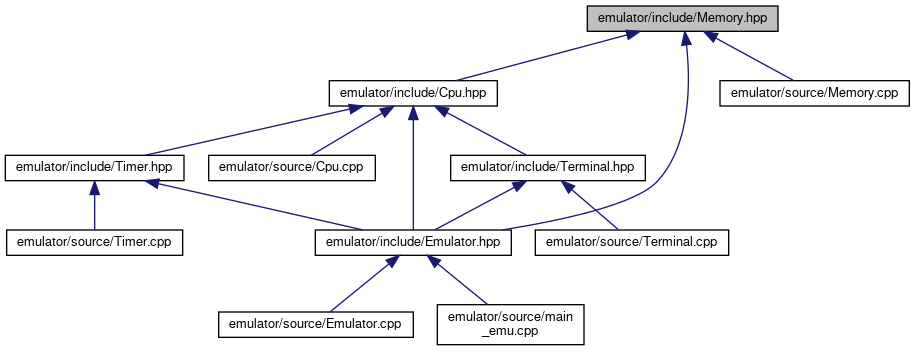
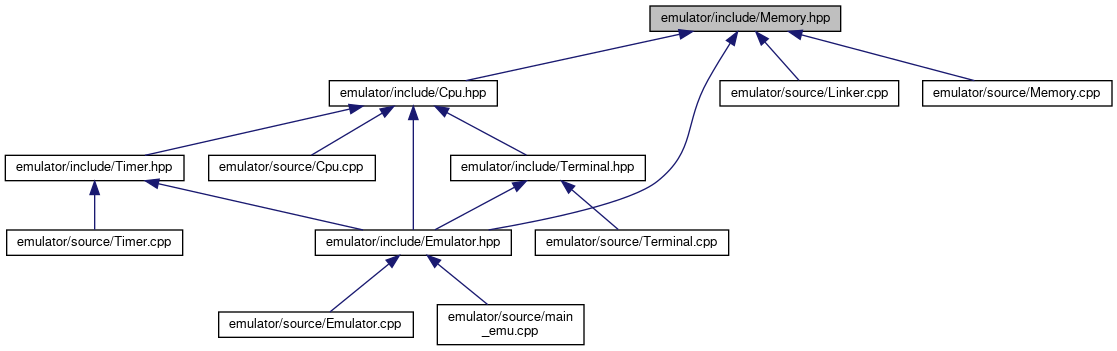
[automated] Build docs

diff --git a/docs/dir_000005_000004.html b/docs/dir_000005_000004.html
@@ -65,7 +65,7 @@ $(function() {
 </div>
 </div><!-- top -->
 <div class="contents">
-<h3>source &rarr; include Relation</h3><table class="dirtab"><tr class="dirtab"><th class="dirtab">File in emulator/source</th><th class="dirtab">Includes file in emulator/include</th></tr><tr class="dirtab"><td class="dirtab"><a class="el" href="Alu_8cpp.html">Alu.cpp</a></td><td class="dirtab"><a class="el" href="Alu_8hpp.html">Alu.hpp</a></td></tr><tr class="dirtab"><td class="dirtab"><a class="el" href="Alu_8cpp.html">Alu.cpp</a></td><td class="dirtab"><a class="el" href="Instruction_8hpp.html">Instruction.hpp</a></td></tr><tr class="dirtab"><td class="dirtab"><a class="el" href="Alu_8cpp.html">Alu.cpp</a></td><td class="dirtab"><a class="el" href="UsageFault_8hpp.html">UsageFault.hpp</a></td></tr><tr class="dirtab"><td class="dirtab"><a class="el" href="CommandLineOptionsParser_8cpp.html">CommandLineOptionsParser.cpp</a></td><td class="dirtab"><a class="el" href="CommandLineOptionsParser_8hpp.html">CommandLineOptionsParser.hpp</a></td></tr><tr class="dirtab"><td class="dirtab"><a class="el" href="CommandLineOptionsParser_8cpp.html">CommandLineOptionsParser.cpp</a></td><td class="dirtab"><a class="el" href="InvalidCommandLineOptions_8hpp.html">InvalidCommandLineOptions.hpp</a></td></tr><tr class="dirtab"><td class="dirtab"><a class="el" href="Cpu_8cpp.html">Cpu.cpp</a></td><td class="dirtab"><a class="el" href="Cpu_8hpp.html">Cpu.hpp</a></td></tr><tr class="dirtab"><td class="dirtab"><a class="el" href="Cpu_8cpp.html">Cpu.cpp</a></td><td class="dirtab"><a class="el" href="InstructionsDefs_8hpp.html">InstructionsDefs.hpp</a></td></tr><tr class="dirtab"><td class="dirtab"><a class="el" href="Cpu_8cpp.html">Cpu.cpp</a></td><td class="dirtab"><a class="el" href="StackOverflow_8hpp.html">StackOverflow.hpp</a></td></tr><tr class="dirtab"><td class="dirtab"><a class="el" href="Cpu_8cpp.html">Cpu.cpp</a></td><td class="dirtab"><a class="el" href="StackUnderflow_8hpp.html">StackUnderflow.hpp</a></td></tr><tr class="dirtab"><td class="dirtab"><a class="el" href="Cpu_8cpp.html">Cpu.cpp</a></td><td class="dirtab"><a class="el" href="UsageFault_8hpp.html">UsageFault.hpp</a></td></tr><tr class="dirtab"><td class="dirtab"><a class="el" href="ElfStructs_8cpp.html">ElfStructs.cpp</a></td><td class="dirtab"><a class="el" href="ElfStructs_8hpp.html">ElfStructs.hpp</a></td></tr><tr class="dirtab"><td class="dirtab"><a class="el" href="ElfStructs_8cpp.html">ElfStructs.cpp</a></td><td class="dirtab"><a class="el" href="InvalidElf_8hpp.html">InvalidElf.hpp</a></td></tr><tr class="dirtab"><td class="dirtab"><a class="el" href="Emulator_8cpp.html">Emulator.cpp</a></td><td class="dirtab"><a class="el" href="Emulator_8hpp.html">Emulator.hpp</a></td></tr><tr class="dirtab"><td class="dirtab"><a class="el" href="Instruction_8cpp.html">Instruction.cpp</a></td><td class="dirtab"><a class="el" href="Instruction_8hpp.html">Instruction.hpp</a></td></tr><tr class="dirtab"><td class="dirtab"><a class="el" href="Instruction_8cpp.html">Instruction.cpp</a></td><td class="dirtab"><a class="el" href="InstructionsDefs_8hpp.html">InstructionsDefs.hpp</a></td></tr><tr class="dirtab"><td class="dirtab"><a class="el" href="Linker_8cpp.html">Linker.cpp</a></td><td class="dirtab"><a class="el" href="Linker_8hpp.html">Linker.hpp</a></td></tr><tr class="dirtab"><td class="dirtab"><a class="el" href="Linker_8cpp.html">Linker.cpp</a></td><td class="dirtab"><a class="el" href="LinkerError_8hpp.html">LinkerError.hpp</a></td></tr><tr class="dirtab"><td class="dirtab"><a class="el" href="main__emu_8cpp.html">main_emu.cpp</a></td><td class="dirtab"><a class="el" href="CommandLineOptionsParser_8hpp.html">CommandLineOptionsParser.hpp</a></td></tr><tr class="dirtab"><td class="dirtab"><a class="el" href="main__emu_8cpp.html">main_emu.cpp</a></td><td class="dirtab"><a class="el" href="Emulator_8hpp.html">Emulator.hpp</a></td></tr><tr class="dirtab"><td class="dirtab"><a class="el" href="main__emu_8cpp.html">main_emu.cpp</a></td><td class="dirtab"><a class="el" href="Linker_8hpp.html">Linker.hpp</a></td></tr><tr class="dirtab"><td class="dirtab"><a class="el" href="main__emu_8cpp.html">main_emu.cpp</a></td><td class="dirtab"><a class="el" href="Typedefs_8hpp.html">Typedefs.hpp</a></td></tr><tr class="dirtab"><td class="dirtab"><a class="el" href="Memory_8cpp.html">Memory.cpp</a></td><td class="dirtab"><a class="el" href="Memory_8hpp.html">Memory.hpp</a></td></tr><tr class="dirtab"><td class="dirtab"><a class="el" href="Memory_8cpp.html">Memory.cpp</a></td><td class="dirtab"><a class="el" href="MemoryAccessViolation_8hpp.html">MemoryAccessViolation.hpp</a></td></tr><tr class="dirtab"><td class="dirtab"><a class="el" href="Psw_8cpp.html">Psw.cpp</a></td><td class="dirtab"><a class="el" href="Psw_8hpp.html">Psw.hpp</a></td></tr><tr class="dirtab"><td class="dirtab"><a class="el" href="Terminal_8cpp.html">Terminal.cpp</a></td><td class="dirtab"><a class="el" href="CpuDefs_8hpp.html">CpuDefs.hpp</a></td></tr><tr class="dirtab"><td class="dirtab"><a class="el" href="Terminal_8cpp.html">Terminal.cpp</a></td><td class="dirtab"><a class="el" href="MemoryAccessViolation_8hpp.html">MemoryAccessViolation.hpp</a></td></tr><tr class="dirtab"><td class="dirtab"><a class="el" href="Terminal_8cpp.html">Terminal.cpp</a></td><td class="dirtab"><a class="el" href="Terminal_8hpp.html">Terminal.hpp</a></td></tr><tr class="dirtab"><td class="dirtab"><a class="el" href="Timer_8cpp.html">Timer.cpp</a></td><td class="dirtab"><a class="el" href="CpuDefs_8hpp.html">CpuDefs.hpp</a></td></tr><tr class="dirtab"><td class="dirtab"><a class="el" href="Timer_8cpp.html">Timer.cpp</a></td><td class="dirtab"><a class="el" href="MemoryAccessViolation_8hpp.html">MemoryAccessViolation.hpp</a></td></tr><tr class="dirtab"><td class="dirtab"><a class="el" href="Timer_8cpp.html">Timer.cpp</a></td><td class="dirtab"><a class="el" href="Timer_8hpp.html">Timer.hpp</a></td></tr></table></div><!-- contents -->
+<h3>source &rarr; include Relation</h3><table class="dirtab"><tr class="dirtab"><th class="dirtab">File in emulator/source</th><th class="dirtab">Includes file in emulator/include</th></tr><tr class="dirtab"><td class="dirtab"><a class="el" href="Alu_8cpp.html">Alu.cpp</a></td><td class="dirtab"><a class="el" href="Alu_8hpp.html">Alu.hpp</a></td></tr><tr class="dirtab"><td class="dirtab"><a class="el" href="Alu_8cpp.html">Alu.cpp</a></td><td class="dirtab"><a class="el" href="Instruction_8hpp.html">Instruction.hpp</a></td></tr><tr class="dirtab"><td class="dirtab"><a class="el" href="Alu_8cpp.html">Alu.cpp</a></td><td class="dirtab"><a class="el" href="UsageFault_8hpp.html">UsageFault.hpp</a></td></tr><tr class="dirtab"><td class="dirtab"><a class="el" href="CommandLineOptionsParser_8cpp.html">CommandLineOptionsParser.cpp</a></td><td class="dirtab"><a class="el" href="CommandLineOptionsParser_8hpp.html">CommandLineOptionsParser.hpp</a></td></tr><tr class="dirtab"><td class="dirtab"><a class="el" href="CommandLineOptionsParser_8cpp.html">CommandLineOptionsParser.cpp</a></td><td class="dirtab"><a class="el" href="InvalidCommandLineOptions_8hpp.html">InvalidCommandLineOptions.hpp</a></td></tr><tr class="dirtab"><td class="dirtab"><a class="el" href="Cpu_8cpp.html">Cpu.cpp</a></td><td class="dirtab"><a class="el" href="Cpu_8hpp.html">Cpu.hpp</a></td></tr><tr class="dirtab"><td class="dirtab"><a class="el" href="Cpu_8cpp.html">Cpu.cpp</a></td><td class="dirtab"><a class="el" href="InstructionsDefs_8hpp.html">InstructionsDefs.hpp</a></td></tr><tr class="dirtab"><td class="dirtab"><a class="el" href="Cpu_8cpp.html">Cpu.cpp</a></td><td class="dirtab"><a class="el" href="StackOverflow_8hpp.html">StackOverflow.hpp</a></td></tr><tr class="dirtab"><td class="dirtab"><a class="el" href="Cpu_8cpp.html">Cpu.cpp</a></td><td class="dirtab"><a class="el" href="StackUnderflow_8hpp.html">StackUnderflow.hpp</a></td></tr><tr class="dirtab"><td class="dirtab"><a class="el" href="Cpu_8cpp.html">Cpu.cpp</a></td><td class="dirtab"><a class="el" href="UsageFault_8hpp.html">UsageFault.hpp</a></td></tr><tr class="dirtab"><td class="dirtab"><a class="el" href="ElfStructs_8cpp.html">ElfStructs.cpp</a></td><td class="dirtab"><a class="el" href="ElfStructs_8hpp.html">ElfStructs.hpp</a></td></tr><tr class="dirtab"><td class="dirtab"><a class="el" href="ElfStructs_8cpp.html">ElfStructs.cpp</a></td><td class="dirtab"><a class="el" href="InvalidElf_8hpp.html">InvalidElf.hpp</a></td></tr><tr class="dirtab"><td class="dirtab"><a class="el" href="Emulator_8cpp.html">Emulator.cpp</a></td><td class="dirtab"><a class="el" href="Emulator_8hpp.html">Emulator.hpp</a></td></tr><tr class="dirtab"><td class="dirtab"><a class="el" href="Instruction_8cpp.html">Instruction.cpp</a></td><td class="dirtab"><a class="el" href="Instruction_8hpp.html">Instruction.hpp</a></td></tr><tr class="dirtab"><td class="dirtab"><a class="el" href="Instruction_8cpp.html">Instruction.cpp</a></td><td class="dirtab"><a class="el" href="InstructionsDefs_8hpp.html">InstructionsDefs.hpp</a></td></tr><tr class="dirtab"><td class="dirtab"><a class="el" href="Linker_8cpp.html">Linker.cpp</a></td><td class="dirtab"><a class="el" href="Linker_8hpp.html">Linker.hpp</a></td></tr><tr class="dirtab"><td class="dirtab"><a class="el" href="Linker_8cpp.html">Linker.cpp</a></td><td class="dirtab"><a class="el" href="LinkerError_8hpp.html">LinkerError.hpp</a></td></tr><tr class="dirtab"><td class="dirtab"><a class="el" href="Linker_8cpp.html">Linker.cpp</a></td><td class="dirtab"><a class="el" href="Memory_8hpp.html">Memory.hpp</a></td></tr><tr class="dirtab"><td class="dirtab"><a class="el" href="main__emu_8cpp.html">main_emu.cpp</a></td><td class="dirtab"><a class="el" href="CommandLineOptionsParser_8hpp.html">CommandLineOptionsParser.hpp</a></td></tr><tr class="dirtab"><td class="dirtab"><a class="el" href="main__emu_8cpp.html">main_emu.cpp</a></td><td class="dirtab"><a class="el" href="Emulator_8hpp.html">Emulator.hpp</a></td></tr><tr class="dirtab"><td class="dirtab"><a class="el" href="main__emu_8cpp.html">main_emu.cpp</a></td><td class="dirtab"><a class="el" href="Linker_8hpp.html">Linker.hpp</a></td></tr><tr class="dirtab"><td class="dirtab"><a class="el" href="main__emu_8cpp.html">main_emu.cpp</a></td><td class="dirtab"><a class="el" href="Typedefs_8hpp.html">Typedefs.hpp</a></td></tr><tr class="dirtab"><td class="dirtab"><a class="el" href="Memory_8cpp.html">Memory.cpp</a></td><td class="dirtab"><a class="el" href="Memory_8hpp.html">Memory.hpp</a></td></tr><tr class="dirtab"><td class="dirtab"><a class="el" href="Memory_8cpp.html">Memory.cpp</a></td><td class="dirtab"><a class="el" href="MemoryAccessViolation_8hpp.html">MemoryAccessViolation.hpp</a></td></tr><tr class="dirtab"><td class="dirtab"><a class="el" href="Psw_8cpp.html">Psw.cpp</a></td><td class="dirtab"><a class="el" href="Psw_8hpp.html">Psw.hpp</a></td></tr><tr class="dirtab"><td class="dirtab"><a class="el" href="Terminal_8cpp.html">Terminal.cpp</a></td><td class="dirtab"><a class="el" href="CpuDefs_8hpp.html">CpuDefs.hpp</a></td></tr><tr class="dirtab"><td class="dirtab"><a class="el" href="Terminal_8cpp.html">Terminal.cpp</a></td><td class="dirtab"><a class="el" href="MemoryAccessViolation_8hpp.html">MemoryAccessViolation.hpp</a></td></tr><tr class="dirtab"><td class="dirtab"><a class="el" href="Terminal_8cpp.html">Terminal.cpp</a></td><td class="dirtab"><a class="el" href="Terminal_8hpp.html">Terminal.hpp</a></td></tr><tr class="dirtab"><td class="dirtab"><a class="el" href="Timer_8cpp.html">Timer.cpp</a></td><td class="dirtab"><a class="el" href="CpuDefs_8hpp.html">CpuDefs.hpp</a></td></tr><tr class="dirtab"><td class="dirtab"><a class="el" href="Timer_8cpp.html">Timer.cpp</a></td><td class="dirtab"><a class="el" href="MemoryAccessViolation_8hpp.html">MemoryAccessViolation.hpp</a></td></tr><tr class="dirtab"><td class="dirtab"><a class="el" href="Timer_8cpp.html">Timer.cpp</a></td><td class="dirtab"><a class="el" href="Timer_8hpp.html">Timer.hpp</a></td></tr></table></div><!-- contents -->
 <!-- start footer part -->
 <hr class="footer"/><address class="footer"><small>
 Generated by&#160;<a href="https://www.doxygen.org/index.html"><img class="footer" src="doxygen.svg" width="104" height="31" alt="doxygen"/></a> 1.9.1

diff --git a/docs/Linker_8hpp_source.html b/docs/Linker_8hpp_source.html
@@ -101,31 +101,36 @@ $(function() {
 <div class="line"><a name="l00030"></a><span class="lineno">   30</span>&#160;        <span class="keywordtype">void</span> add_section_address_offsets(std::map&lt;std::string, int&gt; section_address_map);</div>
 <div class="line"><a name="l00031"></a><span class="lineno">   31</span>&#160;        <span class="keywordtype">void</span> resolve_relocations();</div>
 <div class="line"><a name="l00032"></a><span class="lineno">   32</span>&#160; </div>
-<div class="line"><a name="l00033"></a><span class="lineno">   33</span>&#160;        <span class="keyword">static</span> <span class="keywordtype">void</span> add_byte(std::vector&lt;emulator::system::byte_t&gt; &amp;object_code,</div>
-<div class="line"><a name="l00034"></a><span class="lineno">   34</span>&#160;                             <span class="keywordtype">size_t</span> offset,</div>
-<div class="line"><a name="l00035"></a><span class="lineno">   35</span>&#160;                             <a class="code" href="namespaceemulator_1_1system.html#a47e14db436e9c9e9146bb5778118346c">emulator::system::byte_t</a> increment);</div>
-<div class="line"><a name="l00036"></a><span class="lineno">   36</span>&#160;        <span class="keyword">static</span> <span class="keywordtype">void</span> add_word(std::vector&lt;emulator::system::byte_t&gt; &amp;object_code,</div>
+<div class="line"><a name="l00033"></a><span class="lineno">   33</span>&#160;        <span class="keywordtype">void</span> arrange_sections_to_memory(std::map&lt;std::string, int&gt; section_address_map);</div>
+<div class="line"><a name="l00034"></a><span class="lineno">   34</span>&#160;        <span class="keywordtype">bool</span> check_section_address_map(std::map&lt;std::string, int&gt; section_address_map);</div>
+<div class="line"><a name="l00035"></a><span class="lineno">   35</span>&#160; </div>
+<div class="line"><a name="l00036"></a><span class="lineno">   36</span>&#160;        <span class="keyword">static</span> <span class="keywordtype">void</span> add_byte(std::vector&lt;emulator::system::byte_t&gt; &amp;object_code,</div>
 <div class="line"><a name="l00037"></a><span class="lineno">   37</span>&#160;                             <span class="keywordtype">size_t</span> offset,</div>
-<div class="line"><a name="l00038"></a><span class="lineno">   38</span>&#160;                             <a class="code" href="namespaceemulator_1_1system.html#a1aea35845049f95d8442217b217adb30">emulator::system::word_t</a> increment);</div>
-<div class="line"><a name="l00039"></a><span class="lineno">   39</span>&#160; </div>
-<div class="line"><a name="l00040"></a><span class="lineno">   40</span>&#160;        <span class="keyword">static</span> <span class="keywordtype">size_t</span> next_section_idx;</div>
-<div class="line"><a name="l00041"></a><span class="lineno">   41</span>&#160; </div>
-<div class="line"><a name="l00042"></a><span class="lineno">   42</span>&#160;        std::map&lt;std::string, elf::symbol_table_entry_t&gt; symbols;</div>
-<div class="line"><a name="l00043"></a><span class="lineno">   43</span>&#160; </div>
-<div class="line"><a name="l00044"></a><span class="lineno">   44</span>&#160;        std::vector&lt;elf::section_t&gt; sections;</div>
-<div class="line"><a name="l00045"></a><span class="lineno">   45</span>&#160;        std::map&lt;std::string, size_t&gt; section_offsets;</div>
-<div class="line"><a name="l00046"></a><span class="lineno">   46</span>&#160;        std::map&lt;std::string, size_t&gt; section_sizes;</div>
-<div class="line"><a name="l00047"></a><span class="lineno">   47</span>&#160; </div>
-<div class="line"><a name="l00048"></a><span class="lineno">   48</span>&#160;        std::vector&lt;emulator::system::byte_t&gt; memory_contents_;</div>
-<div class="line"><a name="l00049"></a><span class="lineno">   49</span>&#160;    };</div>
-<div class="line"><a name="l00050"></a><span class="lineno">   50</span>&#160;} <span class="comment">// namespace linker</span></div>
-<div class="line"><a name="l00051"></a><span class="lineno">   51</span>&#160; </div>
-<div class="line"><a name="l00052"></a><span class="lineno">   52</span>&#160;<span class="preprocessor">#endif</span></div>
+<div class="line"><a name="l00038"></a><span class="lineno">   38</span>&#160;                             <a class="code" href="namespaceemulator_1_1system.html#a47e14db436e9c9e9146bb5778118346c">emulator::system::byte_t</a> increment);</div>
+<div class="line"><a name="l00039"></a><span class="lineno">   39</span>&#160;        <span class="keyword">static</span> <span class="keywordtype">void</span> add_word(std::vector&lt;emulator::system::byte_t&gt; &amp;object_code,</div>
+<div class="line"><a name="l00040"></a><span class="lineno">   40</span>&#160;                             <span class="keywordtype">size_t</span> offset,</div>
+<div class="line"><a name="l00041"></a><span class="lineno">   41</span>&#160;                             <a class="code" href="namespaceemulator_1_1system.html#a1aea35845049f95d8442217b217adb30">emulator::system::word_t</a> increment);</div>
+<div class="line"><a name="l00042"></a><span class="lineno">   42</span>&#160; </div>
+<div class="line"><a name="l00043"></a><span class="lineno">   43</span>&#160;        <span class="keyword">static</span> <span class="keywordtype">size_t</span> next_section_idx;</div>
+<div class="line"><a name="l00044"></a><span class="lineno">   44</span>&#160; </div>
+<div class="line"><a name="l00045"></a><span class="lineno">   45</span>&#160;        <span class="keywordtype">size_t</span> next_section_offset = 0;</div>
+<div class="line"><a name="l00046"></a><span class="lineno">   46</span>&#160; </div>
+<div class="line"><a name="l00047"></a><span class="lineno">   47</span>&#160;        std::map&lt;std::string, elf::symbol_table_entry_t&gt; symbols;</div>
+<div class="line"><a name="l00048"></a><span class="lineno">   48</span>&#160; </div>
+<div class="line"><a name="l00049"></a><span class="lineno">   49</span>&#160;        std::vector&lt;elf::section_t&gt; sections;</div>
+<div class="line"><a name="l00050"></a><span class="lineno">   50</span>&#160;        std::map&lt;std::string, size_t&gt; section_offsets;</div>
+<div class="line"><a name="l00051"></a><span class="lineno">   51</span>&#160;        std::map&lt;std::string, size_t&gt; section_sizes;</div>
+<div class="line"><a name="l00052"></a><span class="lineno">   52</span>&#160; </div>
+<div class="line"><a name="l00053"></a><span class="lineno">   53</span>&#160;        std::vector&lt;emulator::system::byte_t&gt; memory_contents_;</div>
+<div class="line"><a name="l00054"></a><span class="lineno">   54</span>&#160;    };</div>
+<div class="line"><a name="l00055"></a><span class="lineno">   55</span>&#160;} <span class="comment">// namespace linker</span></div>
+<div class="line"><a name="l00056"></a><span class="lineno">   56</span>&#160; </div>
+<div class="line"><a name="l00057"></a><span class="lineno">   57</span>&#160;<span class="preprocessor">#endif</span></div>
 <div class="ttc" id="aElfStructs_8hpp_html"><div class="ttname"><a href="ElfStructs_8hpp.html">ElfStructs.hpp</a></div></div>
 <div class="ttc" id="aTypedefs_8hpp_html"><div class="ttname"><a href="Typedefs_8hpp.html">Typedefs.hpp</a></div></div>
 <div class="ttc" id="aclasslinker_1_1Linker_html"><div class="ttname"><a href="classlinker_1_1Linker.html">linker::Linker</a></div><div class="ttdef"><b>Definition:</b> Linker.hpp:14</div></div>
-<div class="ttc" id="aclasslinker_1_1Linker_html_a457bcdc4c170d48733310a08eead714e"><div class="ttname"><a href="classlinker_1_1Linker.html#a457bcdc4c170d48733310a08eead714e">linker::Linker::memory_contents</a></div><div class="ttdeci">std::vector&lt; emulator::system::byte_t &gt; memory_contents() const</div><div class="ttdef"><b>Definition:</b> Linker.cpp:23</div></div>
-<div class="ttc" id="aclasslinker_1_1Linker_html_ae723d60176a25e2ba7d0c31777889972"><div class="ttname"><a href="classlinker_1_1Linker.html#ae723d60176a25e2ba7d0c31777889972">linker::Linker::link</a></div><div class="ttdeci">void link(std::vector&lt; std::string &gt; source_file_paths, std::map&lt; std::string, int &gt; section_address_map)</div><div class="ttdef"><b>Definition:</b> Linker.cpp:11</div></div>
+<div class="ttc" id="aclasslinker_1_1Linker_html_a457bcdc4c170d48733310a08eead714e"><div class="ttname"><a href="classlinker_1_1Linker.html#a457bcdc4c170d48733310a08eead714e">linker::Linker::memory_contents</a></div><div class="ttdeci">std::vector&lt; emulator::system::byte_t &gt; memory_contents() const</div><div class="ttdef"><b>Definition:</b> Linker.cpp:25</div></div>
+<div class="ttc" id="aclasslinker_1_1Linker_html_ae723d60176a25e2ba7d0c31777889972"><div class="ttname"><a href="classlinker_1_1Linker.html#ae723d60176a25e2ba7d0c31777889972">linker::Linker::link</a></div><div class="ttdeci">void link(std::vector&lt; std::string &gt; source_file_paths, std::map&lt; std::string, int &gt; section_address_map)</div><div class="ttdef"><b>Definition:</b> Linker.cpp:12</div></div>
 <div class="ttc" id="anamespaceemulator_1_1system_html_a1aea35845049f95d8442217b217adb30"><div class="ttname"><a href="namespaceemulator_1_1system.html#a1aea35845049f95d8442217b217adb30">emulator::system::word_t</a></div><div class="ttdeci">uint16_t word_t</div><div class="ttdef"><b>Definition:</b> Typedefs.hpp:13</div></div>
 <div class="ttc" id="anamespaceemulator_1_1system_html_a47e14db436e9c9e9146bb5778118346c"><div class="ttname"><a href="namespaceemulator_1_1system.html#a47e14db436e9c9e9146bb5778118346c">emulator::system::byte_t</a></div><div class="ttdeci">uint8_t byte_t</div><div class="ttdef"><b>Definition:</b> Typedefs.hpp:12</div></div>
 <div class="ttc" id="anamespacelinker_html"><div class="ttname"><a href="namespacelinker.html">linker</a></div><div class="ttdef"><b>Definition:</b> ElfStructs.hpp:10</div></div>

diff --git a/docs/Typedefs_8hpp.html b/docs/Typedefs_8hpp.html
@@ -88,30 +88,30 @@ This graph shows which files directly or indirectly include this file:</div>
 <div class="dyncontent">
 <div class="center"><img src="Typedefs_8hpp__dep__incl.png" border="0" usemap="#aemulator_2include_2Typedefs_8hppdep" alt=""/></div>
 <map name="aemulator_2include_2Typedefs_8hppdep" id="aemulator_2include_2Typedefs_8hppdep">
-<area shape="rect" title=" " alt="" coords="750,5,949,32"/>
-<area shape="rect" href="Alu_8hpp.html" title=" " alt="" coords="441,80,605,107"/>
-<area shape="rect" href="Cpu_8hpp.html" title=" " alt="" coords="354,229,522,256"/>
-<area shape="rect" href="main__emu_8cpp.html" title=" " alt="" coords="1256,453,1403,495"/>
-<area shape="rect" href="Terminal_8hpp.html" title=" " alt="" coords="388,304,583,331"/>
-<area shape="rect" href="Timer_8hpp.html" title=" " alt="" coords="848,304,1027,331"/>
-<area shape="rect" href="CpuDefs_8hpp.html" title=" " alt="" coords="72,80,267,107"/>
-<area shape="rect" href="Psw_8hpp.html" title=" " alt="" coords="96,155,267,181"/>
-<area shape="rect" href="ElfStructs_8hpp.html" title=" " alt="" coords="1328,80,1531,107"/>
-<area shape="rect" href="Linker_8hpp.html" title=" " alt="" coords="1278,155,1459,181"/>
-<area shape="rect" href="Instruction_8hpp.html" title=" " alt="" coords="629,80,836,107"/>
-<area shape="rect" href="Memory_8hpp.html" title=" " alt="" coords="1012,155,1202,181"/>
-<area shape="rect" href="MmioDevice_8hpp.html" title=" " alt="" coords="860,80,1077,107"/>
-<area shape="rect" href="Alu_8cpp.html" title=" " alt="" coords="443,155,606,181"/>
-<area shape="rect" href="Emulator_8hpp.html" title=" " alt="" coords="840,379,1036,405"/>
-<area shape="rect" href="Cpu_8cpp.html" title=" " alt="" coords="197,304,364,331"/>
-<area shape="rect" href="Emulator_8cpp.html" title=" " alt="" coords="840,461,1035,487"/>
-<area shape="rect" href="Terminal_8cpp.html" title=" " alt="" coords="325,379,518,405"/>
-<area shape="rect" href="Timer_8cpp.html" title=" " alt="" coords="607,379,783,405"/>
-<area shape="rect" href="Psw_8cpp.html" title=" " alt="" coords="148,229,317,256"/>
-<area shape="rect" href="ElfStructs_8cpp.html" title=" " alt="" coords="1483,155,1683,181"/>
-<area shape="rect" href="Linker_8cpp.html" title=" " alt="" coords="1367,229,1546,256"/>
-<area shape="rect" href="Instruction_8cpp.html" title=" " alt="" coords="630,155,834,181"/>
-<area shape="rect" href="Memory_8cpp.html" title=" " alt="" coords="987,229,1176,256"/>
+<area shape="rect" title=" " alt="" coords="702,5,900,32"/>
+<area shape="rect" href="Alu_8hpp.html" title=" " alt="" coords="392,80,556,107"/>
+<area shape="rect" href="Cpu_8hpp.html" title=" " alt="" coords="372,229,540,256"/>
+<area shape="rect" href="main__emu_8cpp.html" title=" " alt="" coords="1466,453,1613,495"/>
+<area shape="rect" href="Terminal_8hpp.html" title=" " alt="" coords="374,304,569,331"/>
+<area shape="rect" href="Timer_8hpp.html" title=" " alt="" coords="834,304,1013,331"/>
+<area shape="rect" href="CpuDefs_8hpp.html" title=" " alt="" coords="70,80,265,107"/>
+<area shape="rect" href="Psw_8hpp.html" title=" " alt="" coords="94,155,265,181"/>
+<area shape="rect" href="ElfStructs_8hpp.html" title=" " alt="" coords="1265,80,1468,107"/>
+<area shape="rect" href="Linker_8hpp.html" title=" " alt="" coords="1276,155,1457,181"/>
+<area shape="rect" href="Instruction_8hpp.html" title=" " alt="" coords="580,80,787,107"/>
+<area shape="rect" href="Memory_8hpp.html" title=" " alt="" coords="1060,155,1251,181"/>
+<area shape="rect" href="MmioDevice_8hpp.html" title=" " alt="" coords="811,80,1028,107"/>
+<area shape="rect" href="Alu_8cpp.html" title=" " alt="" coords="441,155,604,181"/>
+<area shape="rect" href="Emulator_8hpp.html" title=" " alt="" coords="826,379,1022,405"/>
+<area shape="rect" href="Cpu_8cpp.html" title=" " alt="" coords="183,304,350,331"/>
+<area shape="rect" href="Emulator_8cpp.html" title=" " alt="" coords="826,461,1021,487"/>
+<area shape="rect" href="Terminal_8cpp.html" title=" " alt="" coords="118,379,311,405"/>
+<area shape="rect" href="Timer_8cpp.html" title=" " alt="" coords="561,379,737,405"/>
+<area shape="rect" href="Psw_8cpp.html" title=" " alt="" coords="146,229,315,256"/>
+<area shape="rect" href="ElfStructs_8cpp.html" title=" " alt="" coords="1481,155,1681,181"/>
+<area shape="rect" href="Linker_8cpp.html" title=" " alt="" coords="1324,229,1502,256"/>
+<area shape="rect" href="Instruction_8cpp.html" title=" " alt="" coords="628,155,832,181"/>
+<area shape="rect" href="Memory_8cpp.html" title=" " alt="" coords="1060,229,1249,256"/>
 </map>
 </div>
 </div>

diff --git a/docs/Linker_8cpp.html b/docs/Linker_8cpp.html
@@ -74,24 +74,28 @@ $(function() {
 <code>#include &lt;fstream&gt;</code><br />
 <code>#include &lt;iostream&gt;</code><br />
 <code>#include &quot;<a class="el" href="LinkerError_8hpp_source.html">LinkerError.hpp</a>&quot;</code><br />
+<code>#include &quot;<a class="el" href="Memory_8hpp_source.html">Memory.hpp</a>&quot;</code><br />
 </div><div class="textblock"><div class="dynheader">
 Include dependency graph for Linker.cpp:</div>
 <div class="dyncontent">
 <div class="center"><img src="Linker_8cpp__incl.png" border="0" usemap="#aemulator_2source_2Linker_8cpp" alt=""/></div>
 <map name="aemulator_2source_2Linker_8cpp" id="aemulator_2source_2Linker_8cpp">
-<area shape="rect" title=" " alt="" coords="364,5,543,32"/>
-<area shape="rect" href="Linker_8hpp.html" title=" " alt="" coords="141,80,224,107"/>
-<area shape="rect" title=" " alt="" coords="416,80,491,107"/>
-<area shape="rect" title=" " alt="" coords="515,80,581,107"/>
-<area shape="rect" title=" " alt="" coords="605,80,677,107"/>
-<area shape="rect" href="LinkerError_8hpp.html" title=" " alt="" coords="283,80,392,107"/>
-<area shape="rect" title=" " alt="" coords="25,155,71,181"/>
-<area shape="rect" title=" " alt="" coords="259,229,314,256"/>
-<area shape="rect" title=" " alt="" coords="5,229,64,256"/>
-<area shape="rect" href="ElfStructs_8hpp.html" title=" " alt="" coords="95,155,198,181"/>
-<area shape="rect" href="Typedefs_8hpp.html" title=" " alt="" coords="116,229,215,256"/>
-<area shape="rect" title=" " alt="" coords="135,304,196,331"/>
-<area shape="rect" title=" " alt="" coords="375,155,452,181"/>
+<area shape="rect" title=" " alt="" coords="206,5,385,32"/>
+<area shape="rect" href="Linker_8hpp.html" title=" " alt="" coords="10,80,93,107"/>
+<area shape="rect" title=" " alt="" coords="117,80,191,107"/>
+<area shape="rect" title=" " alt="" coords="215,80,282,107"/>
+<area shape="rect" title=" " alt="" coords="306,80,378,107"/>
+<area shape="rect" href="LinkerError_8hpp.html" title=" " alt="" coords="402,80,511,107"/>
+<area shape="rect" href="Memory_8hpp.html" title=" " alt="" coords="540,80,632,107"/>
+<area shape="rect" title=" " alt="" coords="23,155,69,181"/>
+<area shape="rect" title=" " alt="" coords="80,229,135,256"/>
+<area shape="rect" title=" " alt="" coords="257,229,315,256"/>
+<area shape="rect" href="ElfStructs_8hpp.html" title=" " alt="" coords="145,155,248,181"/>
+<area shape="rect" href="Typedefs_8hpp.html" title=" " alt="" coords="438,229,537,256"/>
+<area shape="rect" title=" " alt="" coords="457,304,518,331"/>
+<area shape="rect" title=" " alt="" coords="374,155,451,181"/>
+<area shape="rect" title=" " alt="" coords="669,155,737,181"/>
+<area shape="rect" href="MmioDevice_8hpp.html" title=" " alt="" coords="527,155,645,181"/>
 </map>
 </div>
 </div></div><!-- contents -->

diff --git a/docs/MmioDevice_8hpp.html b/docs/MmioDevice_8hpp.html
@@ -88,18 +88,19 @@ This graph shows which files directly or indirectly include this file:</div>
 <div class="dyncontent">
 <div class="center"><img src="MmioDevice_8hpp__dep__incl.png" border="0" usemap="#aemulator_2include_2MmioDevice_8hppdep" alt=""/></div>
 <map name="aemulator_2include_2MmioDevice_8hppdep" id="aemulator_2include_2MmioDevice_8hppdep">
-<area shape="rect" title=" " alt="" coords="250,5,467,32"/>
-<area shape="rect" href="Memory_8hpp.html" title=" " alt="" coords="263,80,454,107"/>
-<area shape="rect" href="Terminal_8hpp.html" title=" " alt="" coords="5,229,200,256"/>
-<area shape="rect" href="Timer_8hpp.html" title=" " alt="" coords="517,229,696,256"/>
-<area shape="rect" href="Cpu_8hpp.html" title=" " alt="" coords="275,155,443,181"/>
-<area shape="rect" href="Emulator_8hpp.html" title=" " alt="" coords="261,304,457,331"/>
-<area shape="rect" href="Memory_8cpp.html" title=" " alt="" coords="467,155,656,181"/>
-<area shape="rect" href="Cpu_8cpp.html" title=" " alt="" coords="275,229,442,256"/>
-<area shape="rect" href="Emulator_8cpp.html" title=" " alt="" coords="164,386,359,413"/>
-<area shape="rect" href="main__emu_8cpp.html" title=" " alt="" coords="383,379,529,420"/>
-<area shape="rect" href="Terminal_8cpp.html" title=" " alt="" coords="6,304,199,331"/>
-<area shape="rect" href="Timer_8cpp.html" title=" " alt="" coords="519,304,695,331"/>
+<area shape="rect" title=" " alt="" coords="703,5,921,32"/>
+<area shape="rect" href="Memory_8hpp.html" title=" " alt="" coords="339,80,530,107"/>
+<area shape="rect" href="Terminal_8hpp.html" title=" " alt="" coords="715,229,909,256"/>
+<area shape="rect" href="Timer_8hpp.html" title=" " alt="" coords="933,229,1112,256"/>
+<area shape="rect" href="Cpu_8hpp.html" title=" " alt="" coords="523,155,691,181"/>
+<area shape="rect" href="Emulator_8hpp.html" title=" " alt="" coords="442,304,638,331"/>
+<area shape="rect" href="Linker_8cpp.html" title=" " alt="" coords="5,155,184,181"/>
+<area shape="rect" href="Memory_8cpp.html" title=" " alt="" coords="208,155,397,181"/>
+<area shape="rect" href="Cpu_8cpp.html" title=" " alt="" coords="523,229,690,256"/>
+<area shape="rect" href="Emulator_8cpp.html" title=" " alt="" coords="345,386,540,413"/>
+<area shape="rect" href="main__emu_8cpp.html" title=" " alt="" coords="564,379,711,420"/>
+<area shape="rect" href="Terminal_8cpp.html" title=" " alt="" coords="715,304,909,331"/>
+<area shape="rect" href="Timer_8cpp.html" title=" " alt="" coords="935,304,1111,331"/>
 </map>
 </div>
 </div>

diff --git a/docs/Memory_8hpp.html b/docs/Memory_8hpp.html
@@ -94,10 +94,11 @@ This graph shows which files directly or indirectly include this file:</div>
 <div class="dyncontent">
 <div class="center"><img src="Memory_8hpp__dep__incl.png" border="0" usemap="#aemulator_2include_2Memory_8hppdep" alt=""/></div>
 <map name="aemulator_2include_2Memory_8hppdep" id="aemulator_2include_2Memory_8hppdep">
-<area shape="rect" title=" " alt="" coords="587,5,778,32"/>
+<area shape="rect" title=" " alt="" coords="650,5,841,32"/>
 <area shape="rect" href="Cpu_8hpp.html" title=" " alt="" coords="329,80,497,107"/>
 <area shape="rect" href="Emulator_8hpp.html" title=" " alt="" coords="315,229,511,256"/>
-<area shape="rect" href="Memory_8cpp.html" title=" " alt="" coords="720,80,909,107"/>
+<area shape="rect" href="Linker_8cpp.html" title=" " alt="" coords="720,80,899,107"/>
+<area shape="rect" href="Memory_8cpp.html" title=" " alt="" coords="923,80,1112,107"/>
 <area shape="rect" href="Terminal_8hpp.html" title=" " alt="" coords="451,155,645,181"/>
 <area shape="rect" href="Timer_8hpp.html" title=" " alt="" coords="5,155,184,181"/>
 <area shape="rect" href="Cpu_8cpp.html" title=" " alt="" coords="209,155,375,181"/>

diff --git a/docs/dir_e4cc79a7d5bdd13b122dbbbc296f87c0.html b/docs/dir_e4cc79a7d5bdd13b122dbbbc296f87c0.html
@@ -76,7 +76,7 @@ Directory dependency graph for source:</div>
 <map name="adir__e4cc79a7d5bdd13b122dbbbc296f87c0__dep" id="adir__e4cc79a7d5bdd13b122dbbbc296f87c0__dep">
 <area shape="rect" href="dir_dbcfdeca6fd0eb296eb8426891bc86a1.html" title="include" alt="" coords="27,148,99,196"/>
 <area shape="rect" href="dir_e4cc79a7d5bdd13b122dbbbc296f87c0.html" title="source" alt="" coords="27,52,99,100"/>
-<area shape="rect" href="dir_000005_000004.html" title="30" alt="" coords="64,122,78,137"/>
+<area shape="rect" href="dir_000005_000004.html" title="31" alt="" coords="64,122,78,137"/>
 <area shape="rect" href="dir_199f00bcd9b0045362f41b6724eab9bb.html" title="emulator" alt="" coords="16,16,109,207"/>
 </map>
 </div>

diff --git a/docs/dir_199f00bcd9b0045362f41b6724eab9bb.html b/docs/dir_199f00bcd9b0045362f41b6724eab9bb.html
@@ -76,7 +76,7 @@ Directory dependency graph for emulator:</div>
 <map name="adir__199f00bcd9b0045362f41b6724eab9bb__dep" id="adir__199f00bcd9b0045362f41b6724eab9bb__dep">
 <area shape="rect" href="dir_dbcfdeca6fd0eb296eb8426891bc86a1.html" title="include" alt="" coords="27,123,99,171"/>
 <area shape="rect" href="dir_e4cc79a7d5bdd13b122dbbbc296f87c0.html" title="source" alt="" coords="27,27,99,75"/>
-<area shape="rect" href="dir_000005_000004.html" title="30" alt="" coords="64,97,78,112"/>
+<area shape="rect" href="dir_000005_000004.html" title="31" alt="" coords="64,97,78,112"/>
 <area shape="rect" href="dir_199f00bcd9b0045362f41b6724eab9bb.html" alt="" coords="16,16,205,181"/>
 </map>
 </div>
